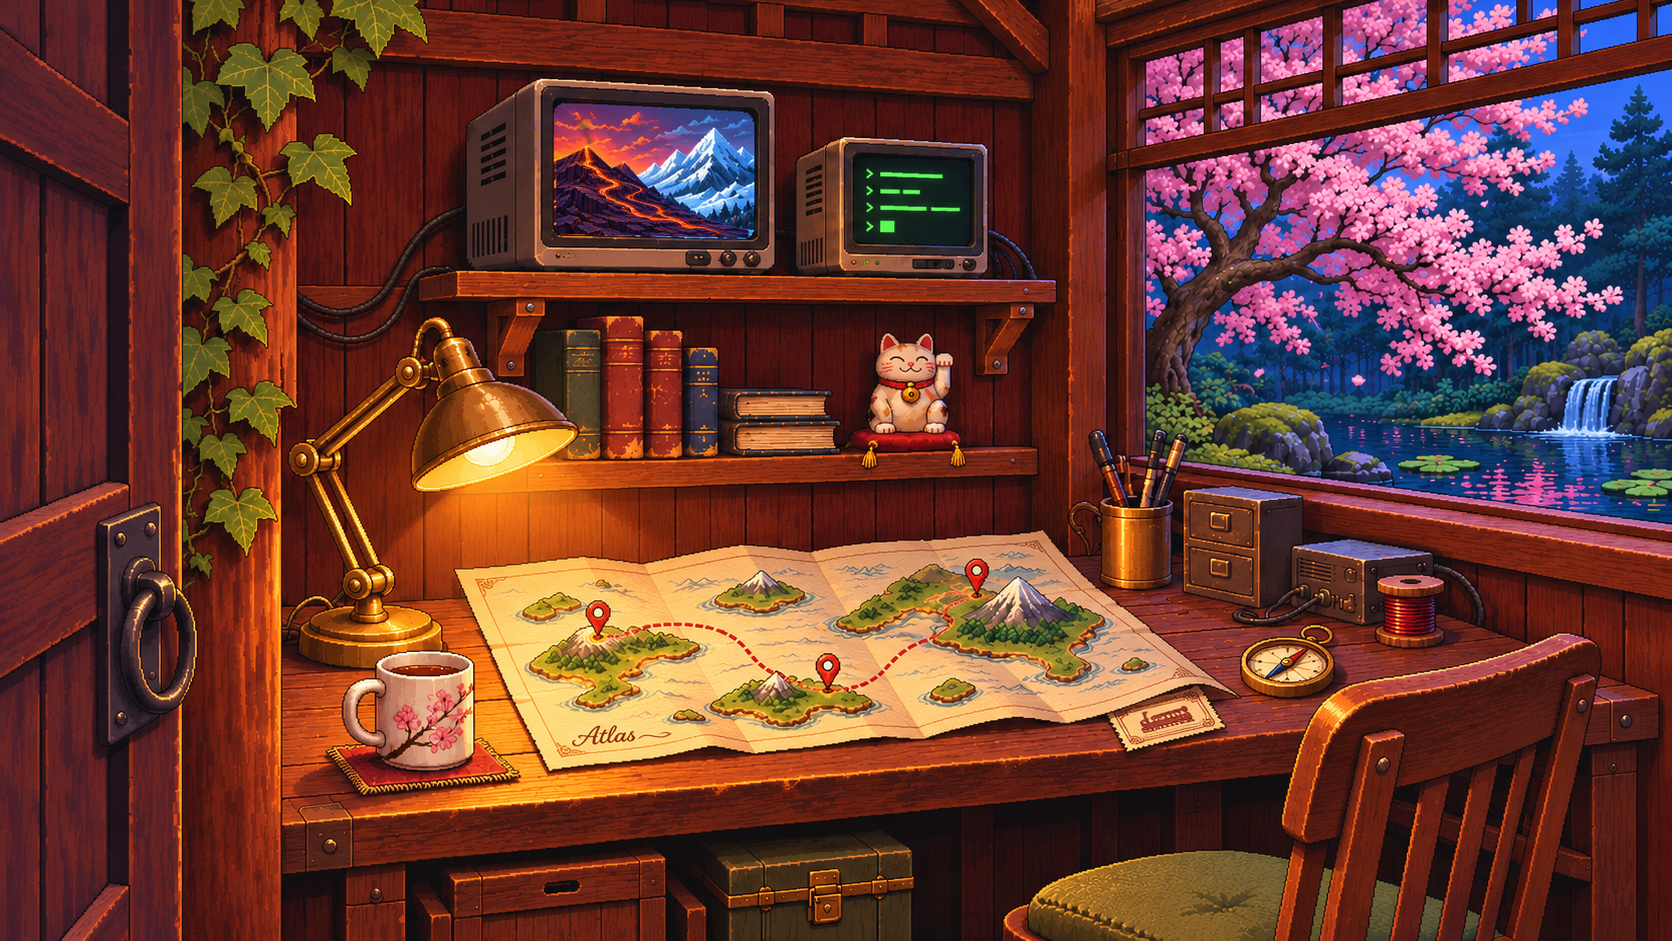
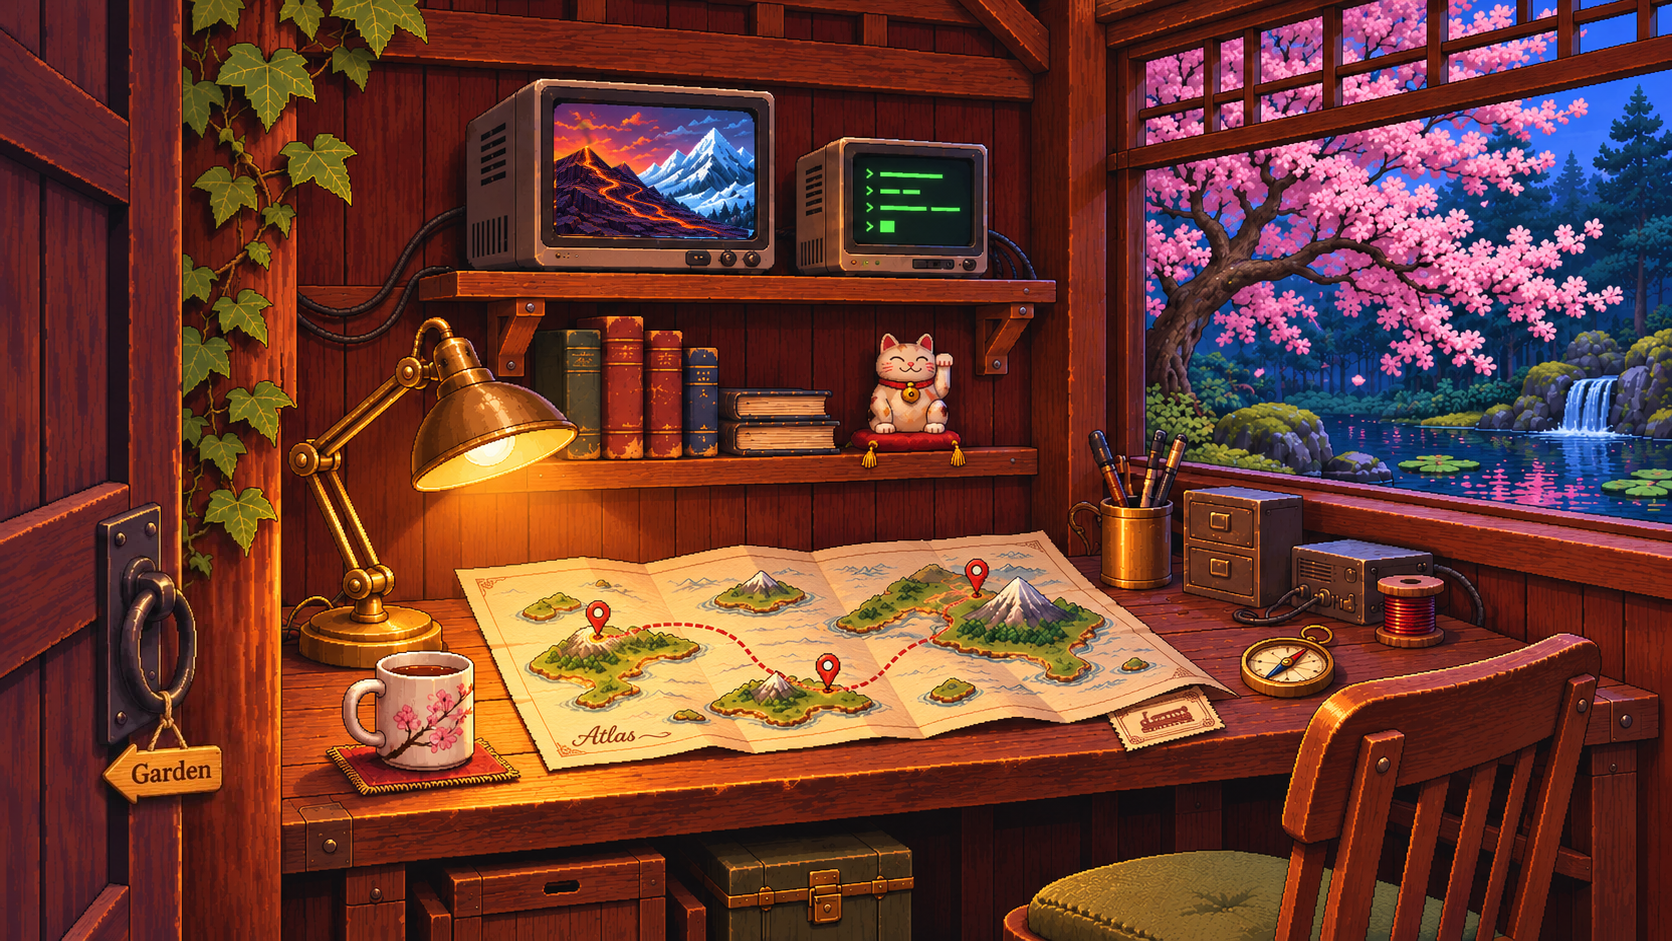
Lead back to the garden from the Garden sign on the workshop door
The workshop picture now has a Garden sign hanging from the door ring,
and that sign is the way back on wider screens instead of the button.
Phones, where the picture pans and the sign starts off-screen, keep the
button. The site loads a 579 KB WebP of the picture; the PNG stays as
the source.

Also adds the Codex briefs for the ivy and lucky cat animations.

Changed region(s): [[0.0622, 0.678, 0.1555, 0.8629], [0.0933, 0.5547, 0.1244, 0.6472]]

diff --git a/src/garden/scenes.ts b/src/garden/scenes.ts
@@ -7,7 +7,7 @@ import { hoverOutlines, landmarks, layers as gardenLayers, masterUrl as gardenMa
 import { ART_HEIGHT, ART_WIDTH } from './layers'
 import type { Layer } from './layers'
 import type { Art } from './fit'
-import workshopMaster from '../../garden/workshop/painted/workshop-background.png'
+import workshopMaster from '../../garden/workshop/painted/workshop-background.webp'
 import shelfMaster from '../../garden/workshop/shelf-640x360.png'
 import shelfManifest from '../../garden/workshop/shelf.json'
 
@@ -35,7 +35,9 @@ export type Scene = {
   spots: Spot[]
   outlines: Partial<Record<string, string>>
   focusX: number // where a narrow screen starts its pan, in the picture's pixels
-  back?: { href: string, label: string } // Escape and the scene's own back control
+  // Where Escape leads. The scene shows its own back button unless the way back is drawn in
+  // the picture (the workshop's Garden sign); phones, which pan, keep the button anyway.
+  back?: { href: string, label: string, inPicture?: boolean }
 }
 
 const outlinesOf = (spots: Spot[]) => Object.fromEntries(spots.flatMap(spot => spot.outline ? [[spot.id, spot.outline]] : []))
@@ -72,7 +74,7 @@ const workshopSpots: Spot[] = [
   workshopSpot('fire-and-ice', '/projects/fire-and-ice', 'Fire and Ice: the mountain screen', 'Fire and Ice', [465, 80, 310, 195]),
   workshopSpot('lol-ping', '/projects/lol-ping', 'LoL Ping: the terminal screen', 'LoL Ping', [795, 135, 195, 140]),
   workshopSpot('shelf', '/projects/shelf', 'All projects: the bookshelf', 'All projects', [525, 310, 445, 150]),
-  workshopSpot('door', '/', 'Back to the garden: the door', 'Back to the garden', [0, 0, 200, 941]),
+  workshopSpot('door', '/', 'Back to the garden: the Garden sign on the door', 'Back to the garden', [96, 520, 144, 296]),
 ]
 
 const shelfSpots: Spot[] = shelfManifest.spines.flatMap(({ id, x, y, width, height }) => {
@@ -88,7 +90,7 @@ export const scenes: Record<SceneId, Scene> = {
   workshop: {
     id: 'workshop', title: 'Projects', master: workshopMaster, art: { width: 1672, height: 941, pixel: false },
     layers: workshopLayers, spots: workshopSpots, outlines: outlinesOf(workshopSpots), focusX: 830,
-    back: { href: '/', label: 'Back to the garden' },
+    back: { href: '/', label: 'Back to the garden', inPicture: true },
   },
   shelf: {
     id: 'shelf', title: 'All projects', master: shelfMaster, art: PIXEL_ART, layers: [], spots: shelfSpots, outlines: {},

diff --git a/src/garden/Garden.tsx b/src/garden/Garden.tsx
@@ -285,7 +285,9 @@ export default function Garden() {
         </div>
       </main>
 
-      {scene.back && !viewOpen && (
+      {/* A way back drawn in the picture replaces the button, except while the picture pans
+          (phones), where it can start off-screen. */}
+      {scene.back && (!scene.back.inPicture || layout.pan) && !viewOpen && (
         <a className="pixel-button scene-back" href={scene.back.href} onClick={routeClick}>{scene.back.label}</a>
       )}
 

diff --git a/garden/workshop/ANIMATION-PROMPT.md b/garden/workshop/ANIMATION-PROMPT.md
@@ -2,7 +2,7 @@
 
 ## How to use it
 1. Paste **The shared rules** below into Codex once, then **one** element brief at a time, in
-   order (1 to 6). Tell Codex to do only that element and stop.
+   order (1 to 8). Tell Codex to do only that element and stop.
 2. Look at its preview. When it is right, tell Claude ("the petals are done"); Claude checks
    it in the site and blends it in, then you paste the next element.
 3. Redo an element as often as needed before moving on. Nothing else changes while you do.
@@ -156,10 +156,37 @@ on its own, from the picture's own pixels, reviewed in the real scene before the
 
 ---
 
-## Optional, after the six
+## 7. Ivy on the left post (`ivy`)
 
-- **Ivy** (`ivy`): the ivy on the left post (about x 185–345, y 0–570) stirs in a light breeze.
-- **Lucky cat** (`cat`): the waving paw on the shelf rocks slowly.
+> Element 7 only. Rectangle: the ivy that climbs the post by the door, about **x 175–430,
+> y 0–590** (the wide clusters at the top reach to about x 430; below y 380 the vine stays left
+> of x 300). A light breeze comes in through the door: the leaves **stir and tilt** a few
+> degrees on their stems, one cluster after another from the top down, and the long trailing
+> strands sway a little. Leaf tips move about **4–8 px** in the full picture (the big top
+> leaves the most, the leaves near the stem the least), so it reads at half size without
+> looking windy. The vine's main stem and the post stay still.
+> - Where a leaf moves off a spot, paint the wood behind it from the picture's own colours, so
+>   no gap or ghost leaf shows.
+> - **Below y 380, change nothing at x 300 or more.** The lamp animation brightens and dims
+>   the wall there and is drawn underneath the ivy; ivy pixels in that area would cover its
+>   light.
+> - Transparent wherever a frame matches the picture, frame 0 transparent, frame 47 leading
+>   back into it. 48 frames at 120 ms (a 5.8 s loop, slower than the others, like a breeze).
+> Make `ivy-in-scene.apng` with the lamp animation playing too.
+
+## 8. Lucky cat on the shelf (`cat`)
+
+> Element 8 only. Rectangle: the beckoning cat and its red cushion on the shelf, about
+> **x 860–965, y 325–440**. The cat's raised paw (upper right, about x 930–955, y 338–372)
+> **waves**: it swings down and forward from the shoulder and back up, the classic slow
+> beckon, **two full waves per loop**, each easing in and out. At the bottom of the swing the
+> paw tip is about **10–14 px** lower than in the picture, so the wave reads at half size. The
+> gold bell on its collar catches the light with a small glint on each downstroke. The head,
+> body, cushion and tassels stay still.
+> - Where the paw moves away, paint the wall and shelf behind it from the picture's own
+>   colours, so no second paw or gap shows.
+> - Transparent wherever a frame matches the picture, frame 0 transparent, frame 47 leading
+>   back into it. 48 frames at 100 ms.
 
 ## What happens after each element
 Claude adds the sheet to the workshop scene at its rectangle, checks it at desktop and phone

diff --git a/garden/workshop/REQUEST.md b/garden/workshop/REQUEST.md
@@ -28,7 +28,7 @@ front.
 | `hover-fire-and-ice.png` | the left screen with the mountains | the Fire and Ice project |
 | `hover-lol-ping.png` | the right screen with the green terminal | the LoL Ping project |
 | `hover-shelf.png` | the lower shelf: the row of books and the lucky cat | a close-up of every project |
-| `hover-door.png` | the open door on the left, with its ring handle | back to the garden |
+| `hover-door.png` | the ring handle on the door and the "Garden" sign hanging from it | back to the garden |
 
 The site also uses each outline to decide what is clickable, so the outline must surround the
 whole object. Until these exist, each object responds within a rough rectangle with a soft
